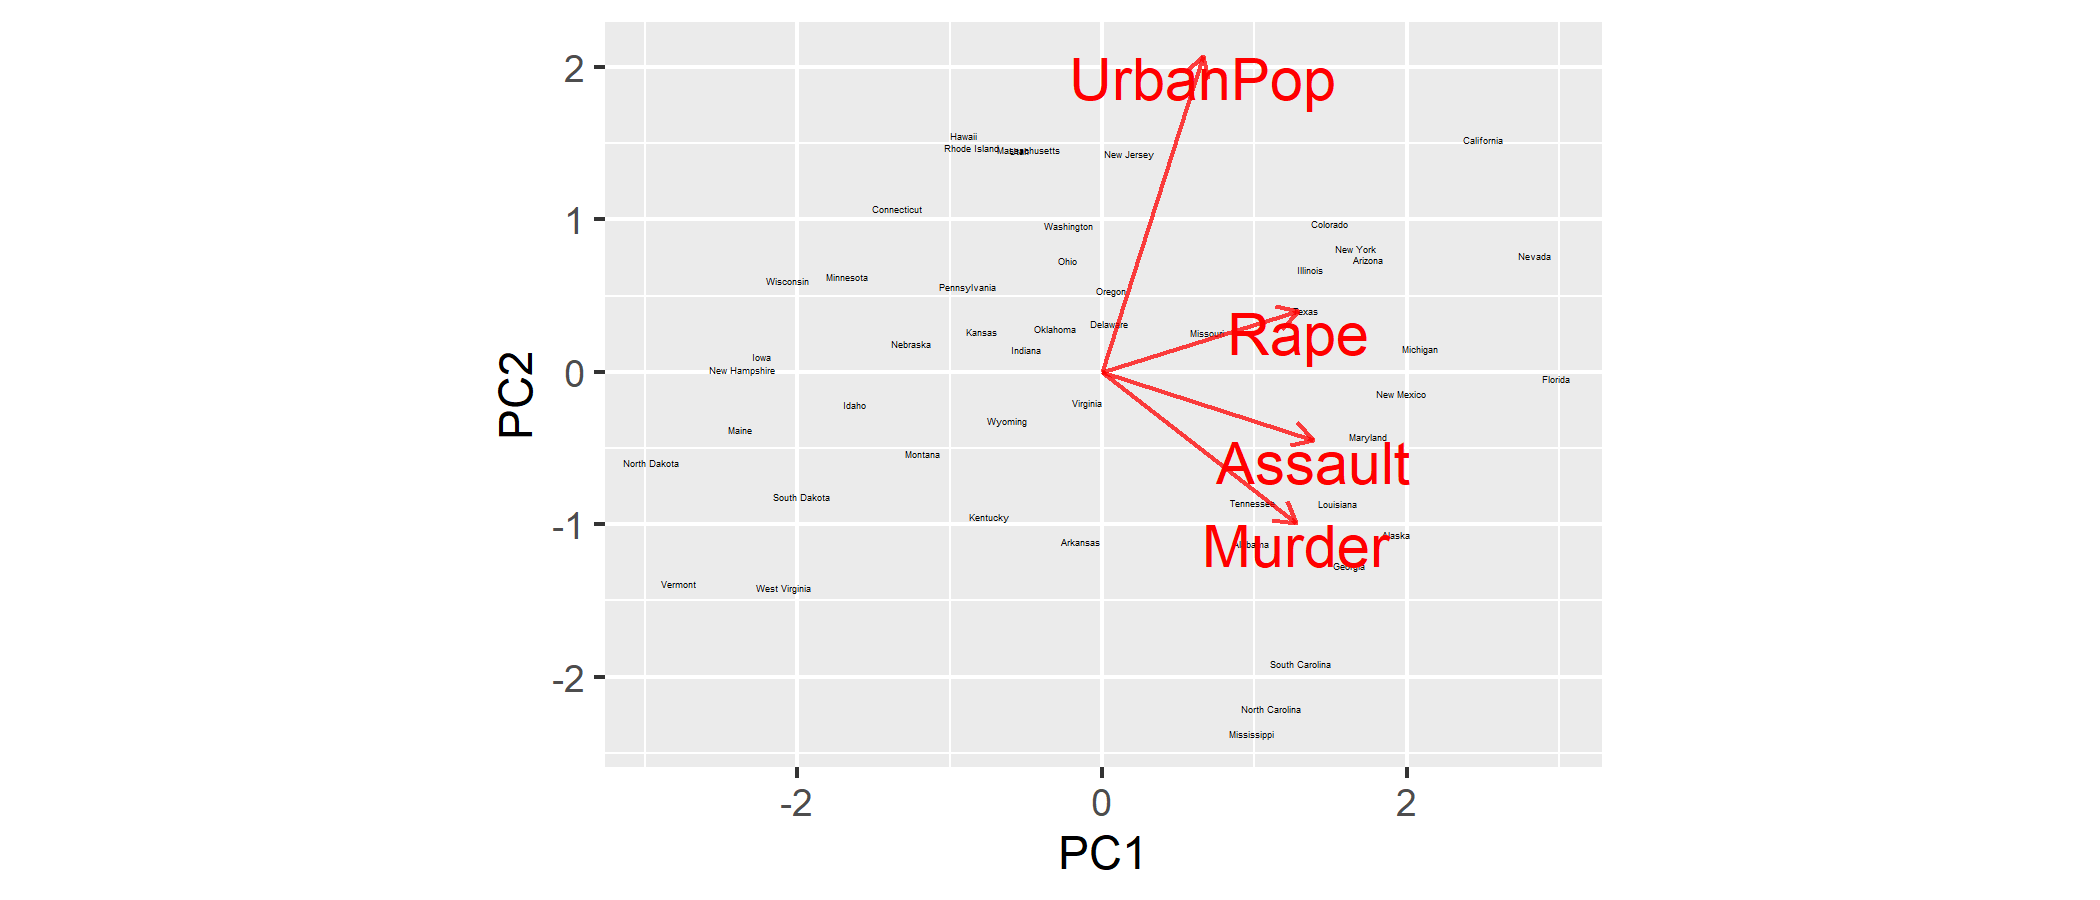
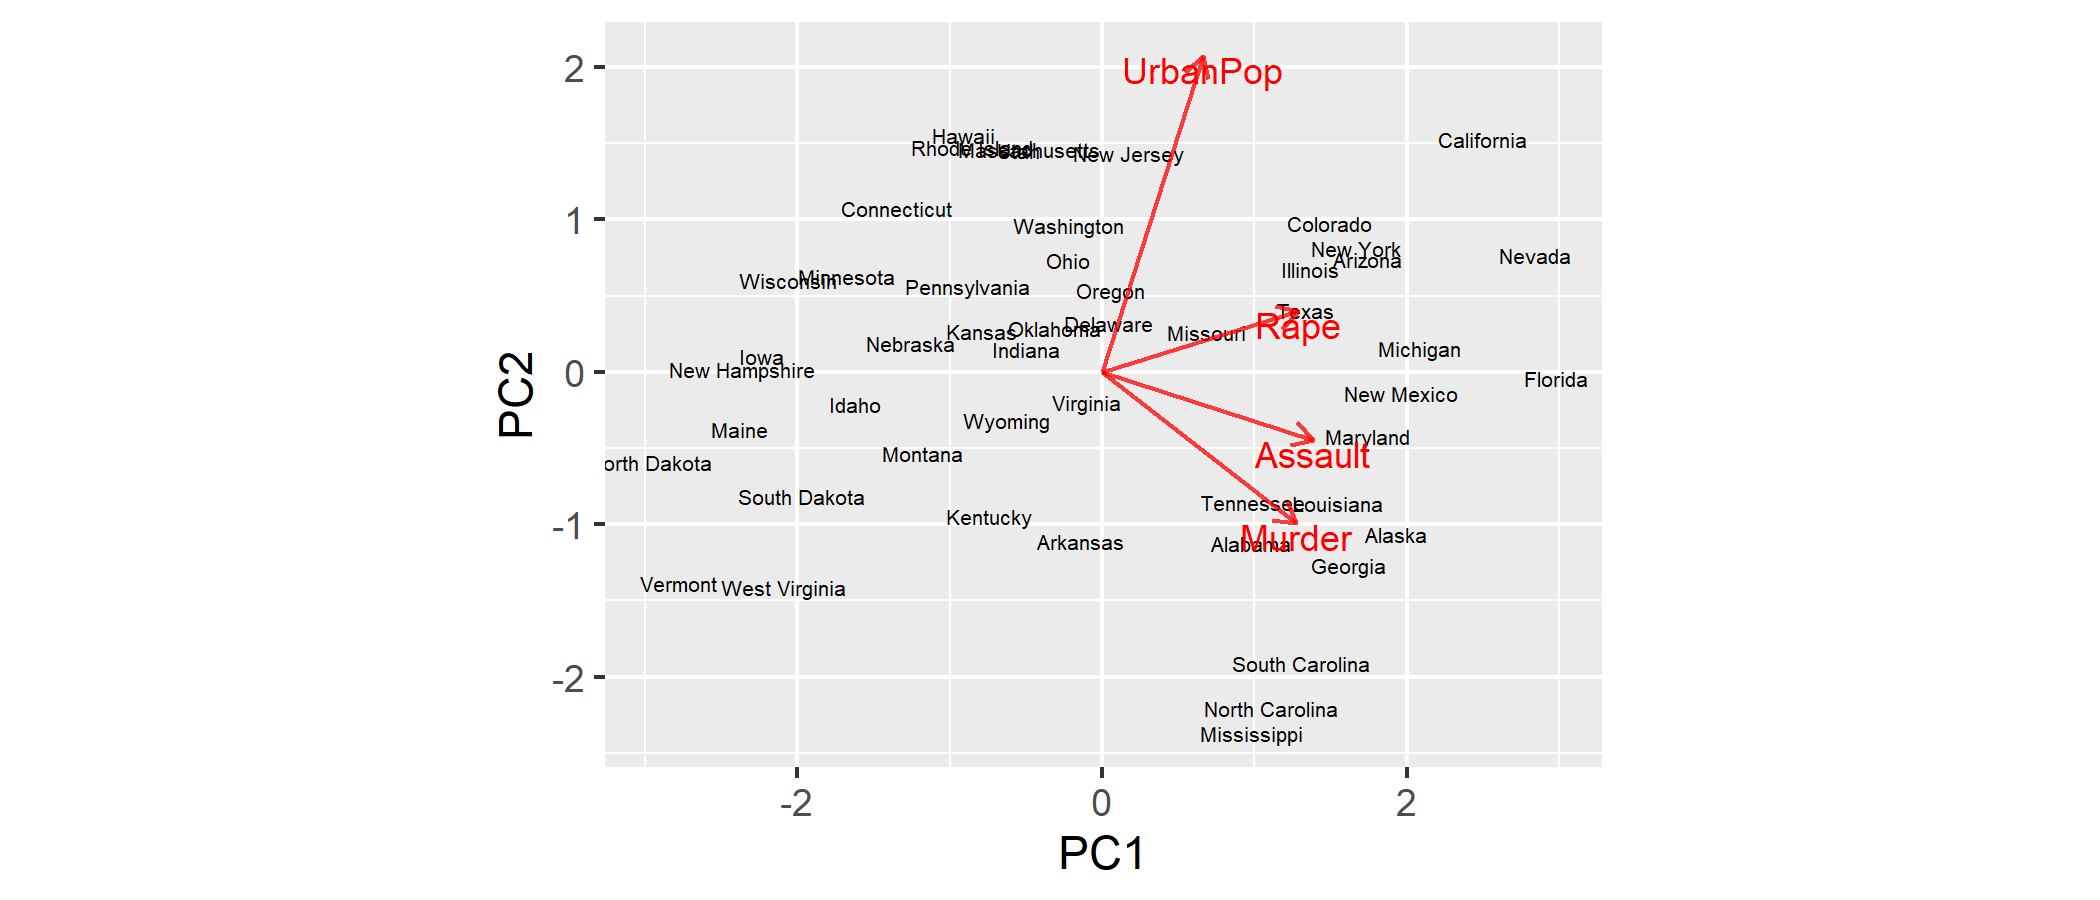
es geht noch

diff --git a/Predavanja/04_PCA.html b/Predavanja/04_PCA.html
@@ -396,6 +396,7 @@ name: primjena
 
 
 ```r
+# vidi https://uc-r.github.io/pca
 data("USArrests")  # Učitaj podatke
 head(USArrests,10) # Pregledaj podatke
 ```
@@ -649,7 +650,7 @@ cumPVE
 
 ```r
 ## PROVEDI PROCEDURU PUTEM FORMULA ##
-PCA_fun &lt;- prcomp(USArrests, scale = T)
+PCA_fun &lt;- stats::prcomp(USArrests, scale = T)
 names(PCA_fun) # Pregledaj objekt
 ```
 
@@ -738,7 +739,7 @@ head(PCA_fun$x)
 
 ```r
 # Vizualiziraj 
-# biplot(PCA_fun, scale = 0) bi se koristio uobičajeno
+# biplot(PCA_fun, scale = 0) # standardna funkcija
 PCbiplot(PCA_fun) # custom made funkcija; vidi .Rmd
 ```
 
@@ -768,10 +769,12 @@ print(round(PCv, 2))
 ##### Pregled podataka
 
 
+
 ```r
+# Vidi niže za detaljnjiji opis
 # Podatci
 data(decathlon2)
-head(decathlon2, 7)
+head(decathlon2, 5)
 ```
 
 ```
@@ -781,18 +784,15 @@ head(decathlon2, 7)
 ## BERNARD   11.02      7.23    14.25      1.92 48.93        14.99  40.87
 ## YURKOV    11.34      7.09    15.19      2.10 50.42        15.31  46.26
 ## ZSIVOCZKY 11.13      7.30    13.48      2.01 48.62        14.17  45.67
-## McMULLEN  10.83      7.31    13.76      2.13 49.91        14.38  44.41
-## MARTINEAU 11.64      6.81    14.57      1.95 50.14        14.93  47.60
 ##           Pole.vault Javeline X1500m Rank Points Competition
 ## SEBRLE          5.02    63.19  291.7    1   8217    Decastar
 ## CLAY            4.92    60.15  301.5    2   8122    Decastar
 ## BERNARD         5.32    62.77  280.1    4   8067    Decastar
 ## YURKOV          4.72    63.44  276.4    5   8036    Decastar
 ## ZSIVOCZKY       4.42    55.37  268.0    7   8004    Decastar
-## McMULLEN        4.42    56.37  285.1    8   7995    Decastar
-## MARTINEAU       4.92    52.33  262.1    9   7802    Decastar
 ```
 
+.footnote[[analiza](https://raw.githack.com/clemonster/decathlon-pca/master/decathlon_full_analysis.html) + [Analiza](https://husson.github.io/MOOC_GB/RMarkdown_PCA_Decathlon.pdf) ]
 ---
 
 # Primjer 2 (Sportski rezultati)
@@ -895,7 +895,7 @@ print(procjena_PCA)
 
 ```r
 # Izvuci svojstvene vrijednosti
-svojstvene_vrijednosti &lt;- get_eigenvalue(procjena_PCA)
+svojstvene_vrijednosti &lt;- factoextra::get_eigenvalue(procjena_PCA)
 print(svojstvene_vrijednosti)
 ```
 
@@ -922,7 +922,7 @@ print(svojstvene_vrijednosti)
 
 ```r
 # Prikaži grafički
-fviz_eig(procjena_PCA, addlabels = T, ylim = c(0,45))
+factoextra::fviz_eig(procjena_PCA, addlabels = T, ylim = c(0,45))
 ```
 
 &lt;img src="04_PCA_files/figure-html/unnamed-chunk-50-1.png" style="display: block; margin: auto;" /&gt;
@@ -936,7 +936,7 @@ fviz_eig(procjena_PCA, addlabels = T, ylim = c(0,45))
 
 ```r
 ## VARIJABLE ##
-vars &lt;- get_pca_var(procjena_PCA)
+vars &lt;- factoextra::get_pca_var(procjena_PCA)
 print(vars)
 ```
 
@@ -1022,7 +1022,7 @@ head(vars$contrib) # Doprinos varijabli komponentama
 
 ```r
 # Prikaži varijable u prostoru glavnih komponenti
-fviz_pca_var(procjena_PCA, col.var = "contrib")
+factoextra::fviz_pca_var(procjena_PCA, col.var = "contrib", labelsize = 2)
 ```
 
 &lt;img src="04_PCA_files/figure-html/unnamed-chunk-55-1.png" style="display: block; margin: auto;" /&gt;
@@ -1051,7 +1051,7 @@ corrplot::corrplot(vars$cos2, is.corr = F)
 
 ```r
 # Prikaži doprinos na stupčastom grafikonu
-fviz_cos2(procjena_PCA, choice = "var", axes = 1:2)
+factoextra::fviz_cos2(procjena_PCA, choice = "var", axes = 1:2)
 ```
 
 &lt;img src="04_PCA_files/figure-html/unnamed-chunk-57-1.png" style="display: block; margin: auto;" /&gt;
@@ -1079,7 +1079,7 @@ corrplot::corrplot(vars$contrib, is.corr = F)
 
 ```r
 # Prikaži na stupčastom grafikonu
-fviz_contrib(procjena_PCA, choice = "var", axses = 1, top = 10)
+factoextra::fviz_contrib(procjena_PCA, choice = "var", axses = 1, top = 10)
 ```
 
 &lt;img src="04_PCA_files/figure-html/unnamed-chunk-59-1.png" style="display: block; margin: auto;" /&gt;
@@ -1092,9 +1092,9 @@ fviz_contrib(procjena_PCA, choice = "var", axses = 1, top = 10)
 
 ```r
 set.seed(123) # Grupiranje na osnovi Kmeans algoritma #
-group_km &lt;- kmeans(vars$coord, centers = 3, nstart = 25)
+group_km &lt;- stats::kmeans(vars$coord, centers = 3, nstart = 25)
 group &lt;- as.factor(group_km$cluster)
-fviz_pca_var(procjena_PCA, col.var = group,
+factoextra::fviz_pca_var(procjena_PCA, col.var = group, labelsize = 2,
              palette = c("#0073C2FF", "#EFC000FF", "#868686FF"),
              legend.title = "cluster")
 ```
@@ -1109,8 +1109,7 @@ fviz_pca_var(procjena_PCA, col.var = group,
 .tiny[
 
 ```r
-## OPIS DIMENZIJA ##
-opis_PCA &lt;- dimdesc(procjena_PCA, axes = c(1,2), proba = 0.05)
+opis_PCA &lt;- FactoMineR::dimdesc(procjena_PCA, axes = c(1,2), proba = 0.05)
 head(opis_PCA,10)
 ```
 
@@ -1262,7 +1261,7 @@ opis_PCA$Dim.2
 ```r
 ## INDIVIDUALNI ELEMENTI ##
 
-inds &lt;- get_pca_ind(procjena_PCA) # Stvori IE objekt
+inds &lt;- factoextra::get_pca_ind(procjena_PCA) # Stvori IE objekt
 print(inds) # Pregledaj
 ```
 
@@ -1345,7 +1344,7 @@ head(inds$contrib)   # Doprinos IE
 
 ```r
 # Prikaži doprinos IE
-fviz_pca_ind(procjena_PCA, col.ind = "cos2",gradient.cols = c("#00AFBB", "#E7B800","#FC4E07"),repel = TRUE)
+factoextra::fviz_pca_ind(procjena_PCA, col.ind = "cos2",gradient.cols = c("#00AFBB", "#E7B800","#FC4E07"),repel = TRUE, labelsize = 3 )
 ```
 
 &lt;img src="04_PCA_files/figure-html/unnamed-chunk-68-1.png" style="display: block; margin: auto;" /&gt;
@@ -1359,7 +1358,7 @@ fviz_pca_ind(procjena_PCA, col.ind = "cos2",gradient.cols = c("#00AFBB", "#E7B80
 
 ```r
 # Prikaži doprinos IE na stupčastom grafikonu
-fviz_cos2(procjena_PCA, choice = "ind")
+factoextra::fviz_cos2(procjena_PCA, choice = "ind")
 ```
 
 &lt;img src="04_PCA_files/figure-html/unnamed-chunk-69-1.png" style="display: block; margin: auto;" /&gt;
@@ -1372,7 +1371,7 @@ fviz_cos2(procjena_PCA, choice = "ind")
 
 
 ```r
-fviz_cos2(procjena_PCA, choice = "ind",
+factoextra::fviz_cos2(procjena_PCA, choice = "ind",
           axses = 1:2) # Prve dvije dimenzije
 ```
 
@@ -1386,7 +1385,7 @@ fviz_cos2(procjena_PCA, choice = "ind",
 
 
 ```r
-fviz_cos2(procjena_PCA, choice = "ind",
+factoextra::fviz_cos2(procjena_PCA, choice = "ind",
           axses = 1:2) # Prve dvije dimenzije
 ```
 
@@ -1401,6 +1400,7 @@ fviz_cos2(procjena_PCA, choice = "ind",
 
 
 ```r
+data(iris)
 head(iris,10) # Pogledaj podatke
 ```
 
@@ -1428,7 +1428,7 @@ head(iris,10) # Pogledaj podatke
 
 ```r
 # Provedi PCA
-iris_PCA &lt;- PCA(iris[,-5], graph = F)
+iris_PCA &lt;- FactoMineR::PCA(iris[,-5], graph = F)
 iris_PCA
 ```
 
@@ -1465,7 +1465,7 @@ iris_PCA
 
 ```r
 # Vizualizacija 1
-fviz_pca_ind(iris_PCA,
+factoextra::fviz_pca_ind(iris_PCA,
              geom.ind = "point",
              col.ind = iris$Species, 
              addEllipses = T,
@@ -1484,7 +1484,7 @@ fviz_pca_ind(iris_PCA,
 
 ```r
 # Vizualizacija 2
-fviz_pca_biplot(iris_PCA,
+factoextra::fviz_pca_biplot(iris_PCA,
              geom.ind = "point",
              col.ind = iris$Species, 
              addEllipses = T,
@@ -1492,7 +1492,8 @@ fviz_pca_biplot(iris_PCA,
              palette = "jco",
              col.var = "black",
              label = "var",
-             repel = T)
+             repel = T,
+             labelsize = 3)
 ```
 
 &lt;img src="04_PCA_files/figure-html/unnamed-chunk-75-1.png" style="display: block; margin: auto;" /&gt;
